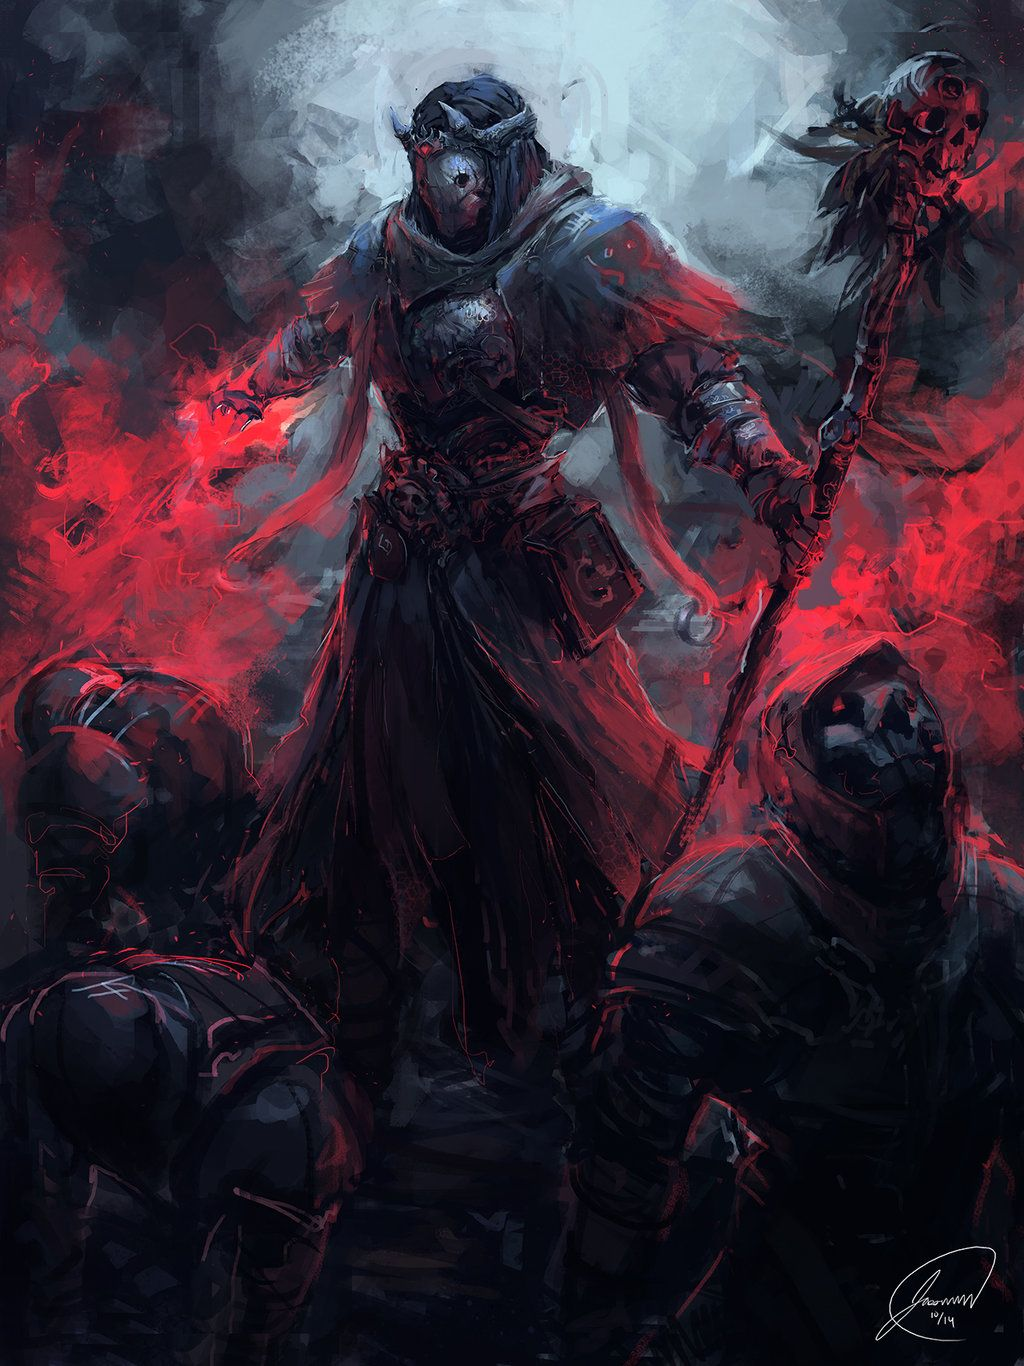
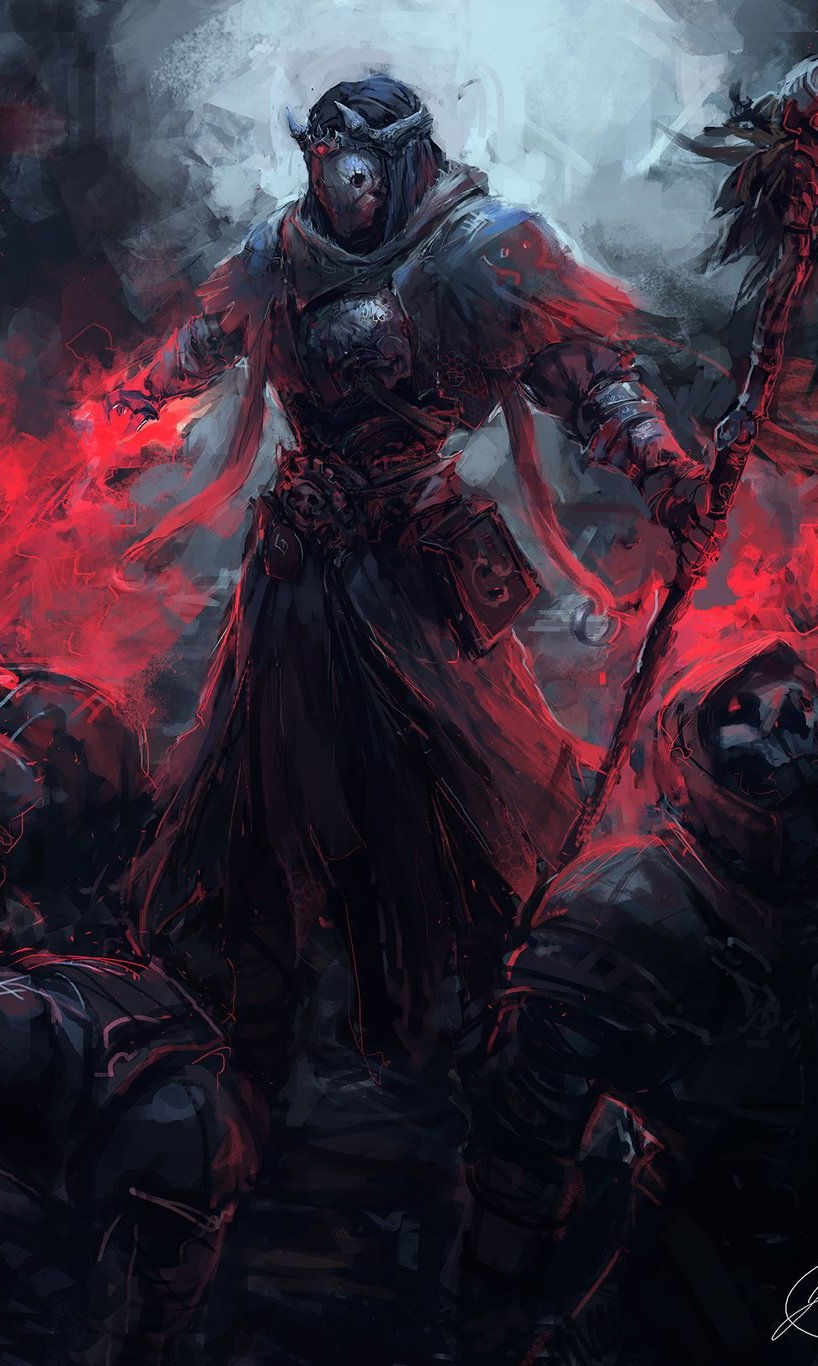
changed size of necromancer image

diff --git a/Assets/main.js b/Assets/main.js
@@ -472,7 +472,8 @@ function player1Attack(){
         // playerRoll =  Math.floor((Math.random()*20)+1);
         var damage =  $(this).attr("attackpower") - player2.ac
         player2.hp = player2.hp - damage
-        console.log("new hp is " + player2.hp)
+                database.ref().child("players/player2/champion2/hp").set(player2.hp)
+
         player1Turn = false;
         player2Turn = true;
         playerCard2();
@@ -484,7 +485,7 @@ function player2Attack(){
         // playerRoll =  Math.floor((Math.random()*20)+1);
         var damage =  $(this).attr("attackpower") - player1.ac
         player1.hp = player1.hp - damage
-        console.log("player1 hp is " + player1.hp)
+        database.ref().child("players/player1/champion1/hp").set(player1.hp)
         player1Turn = true;
         player2Turn = false;
         playerCard1(); 
